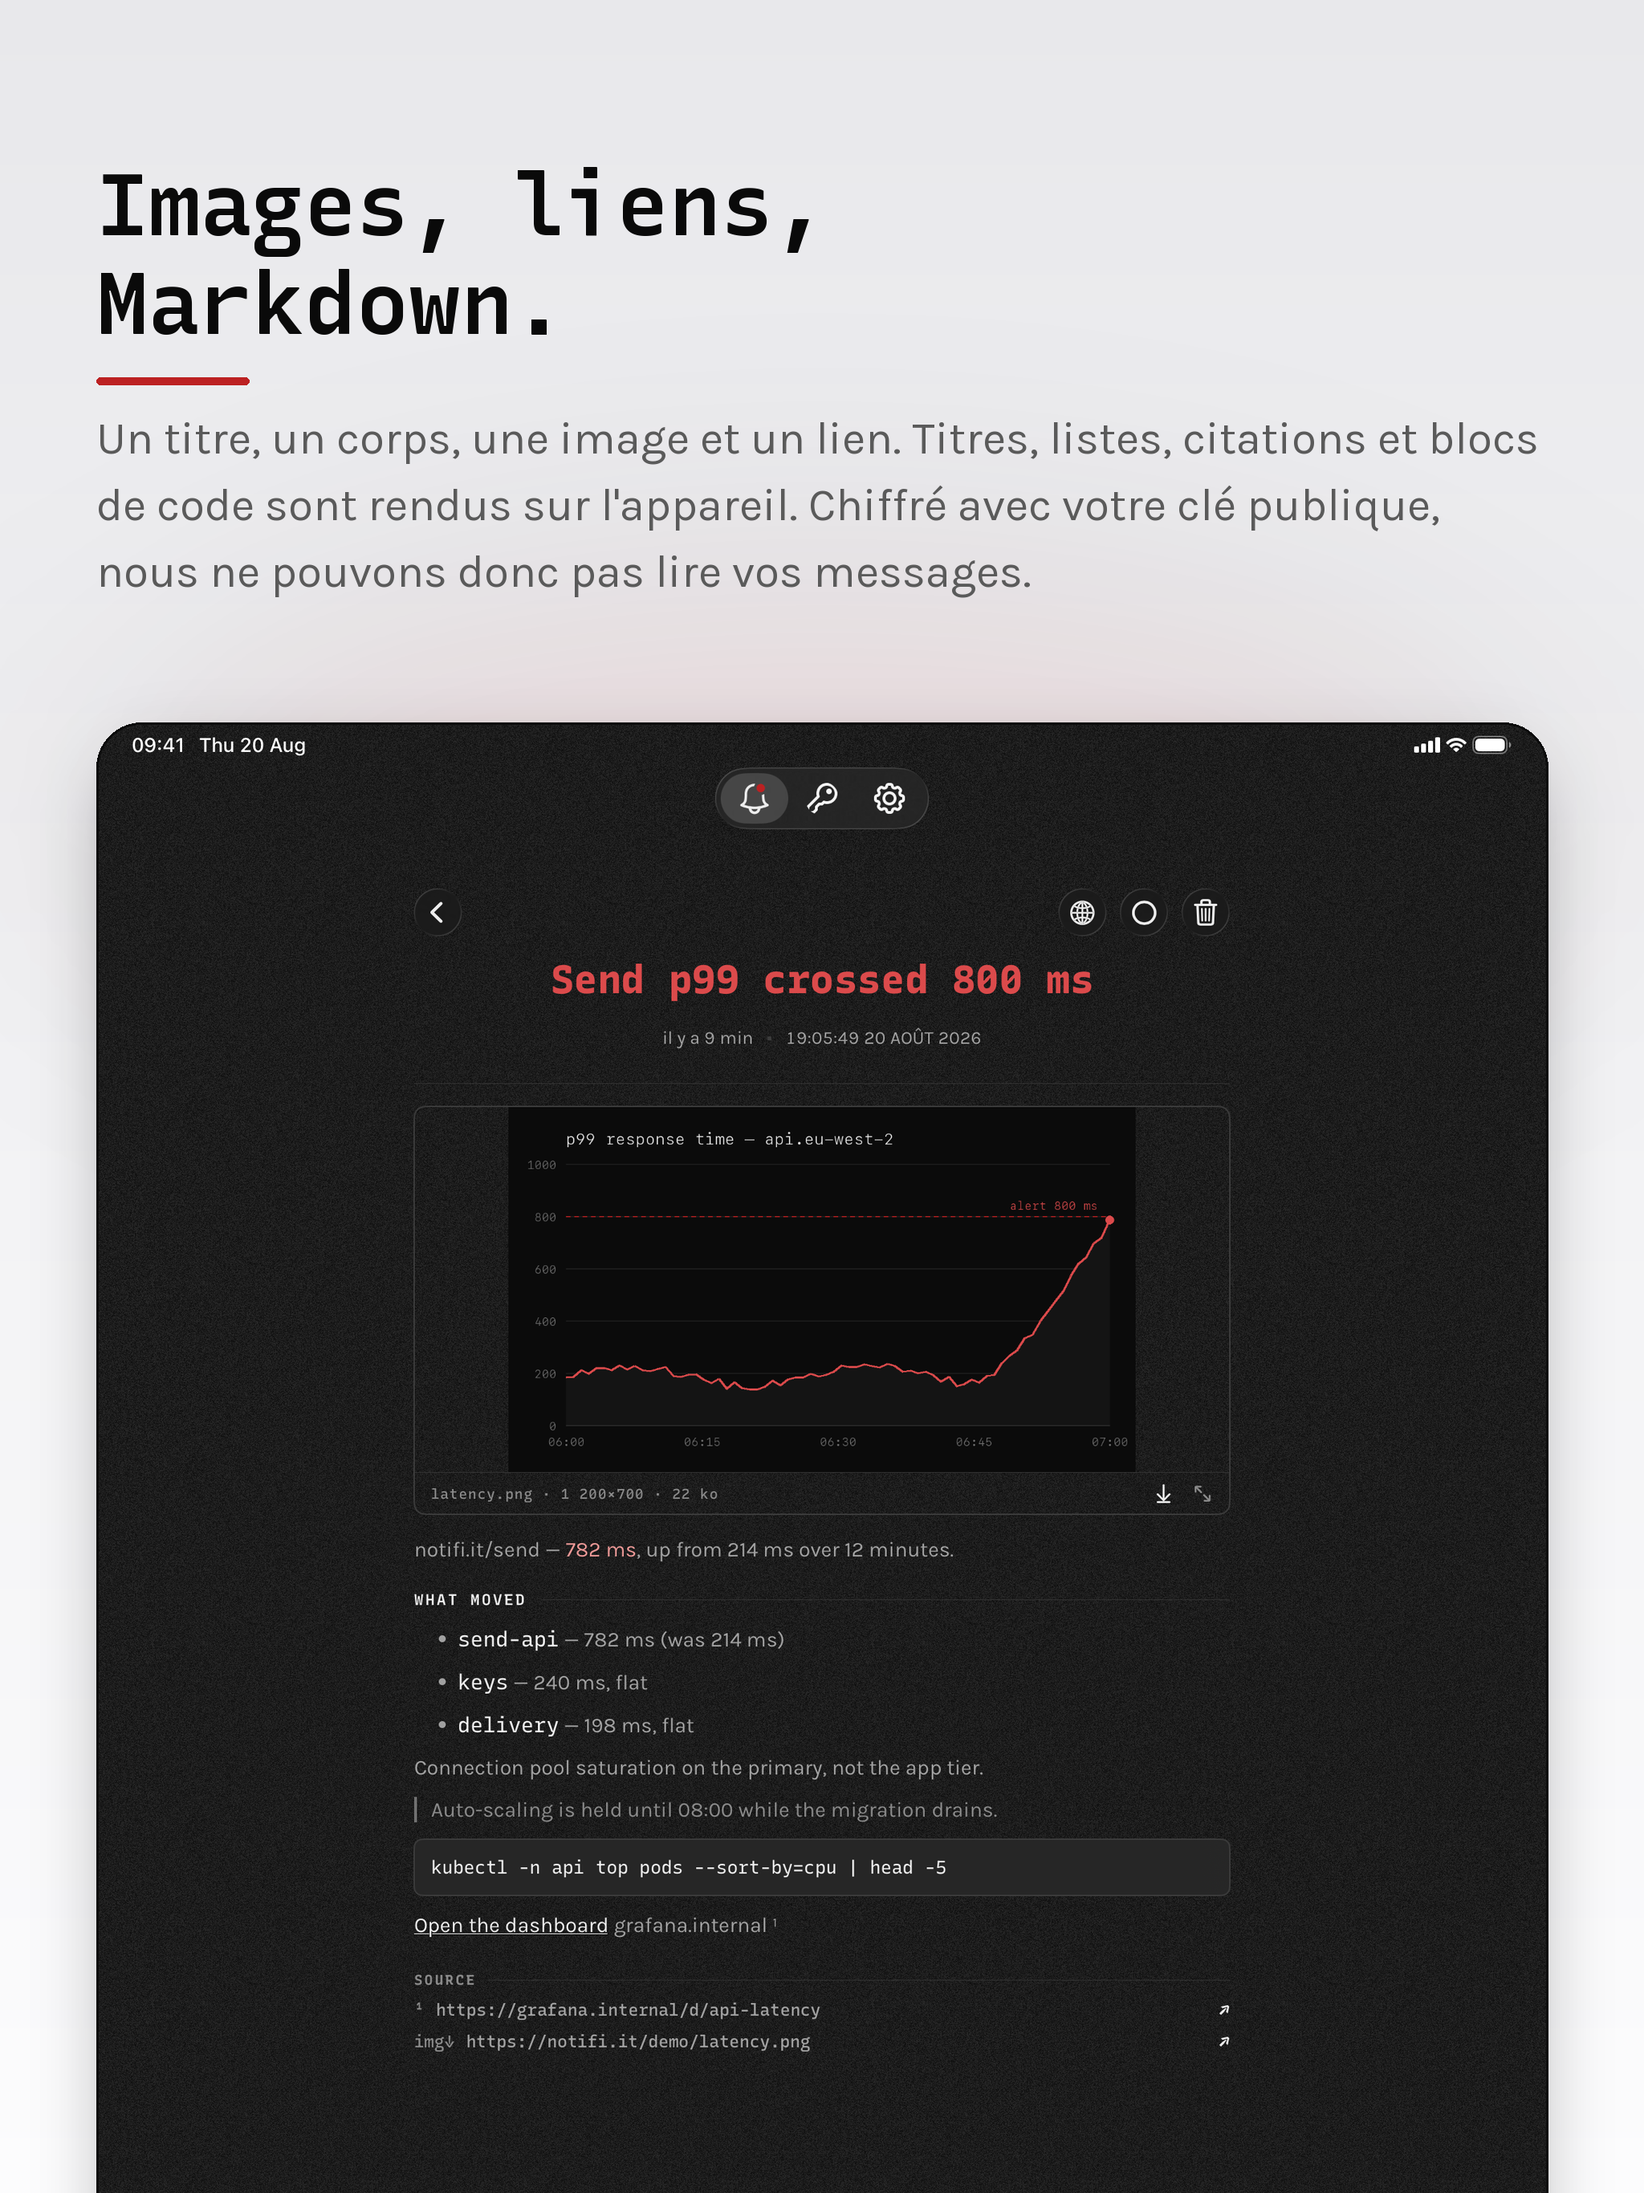
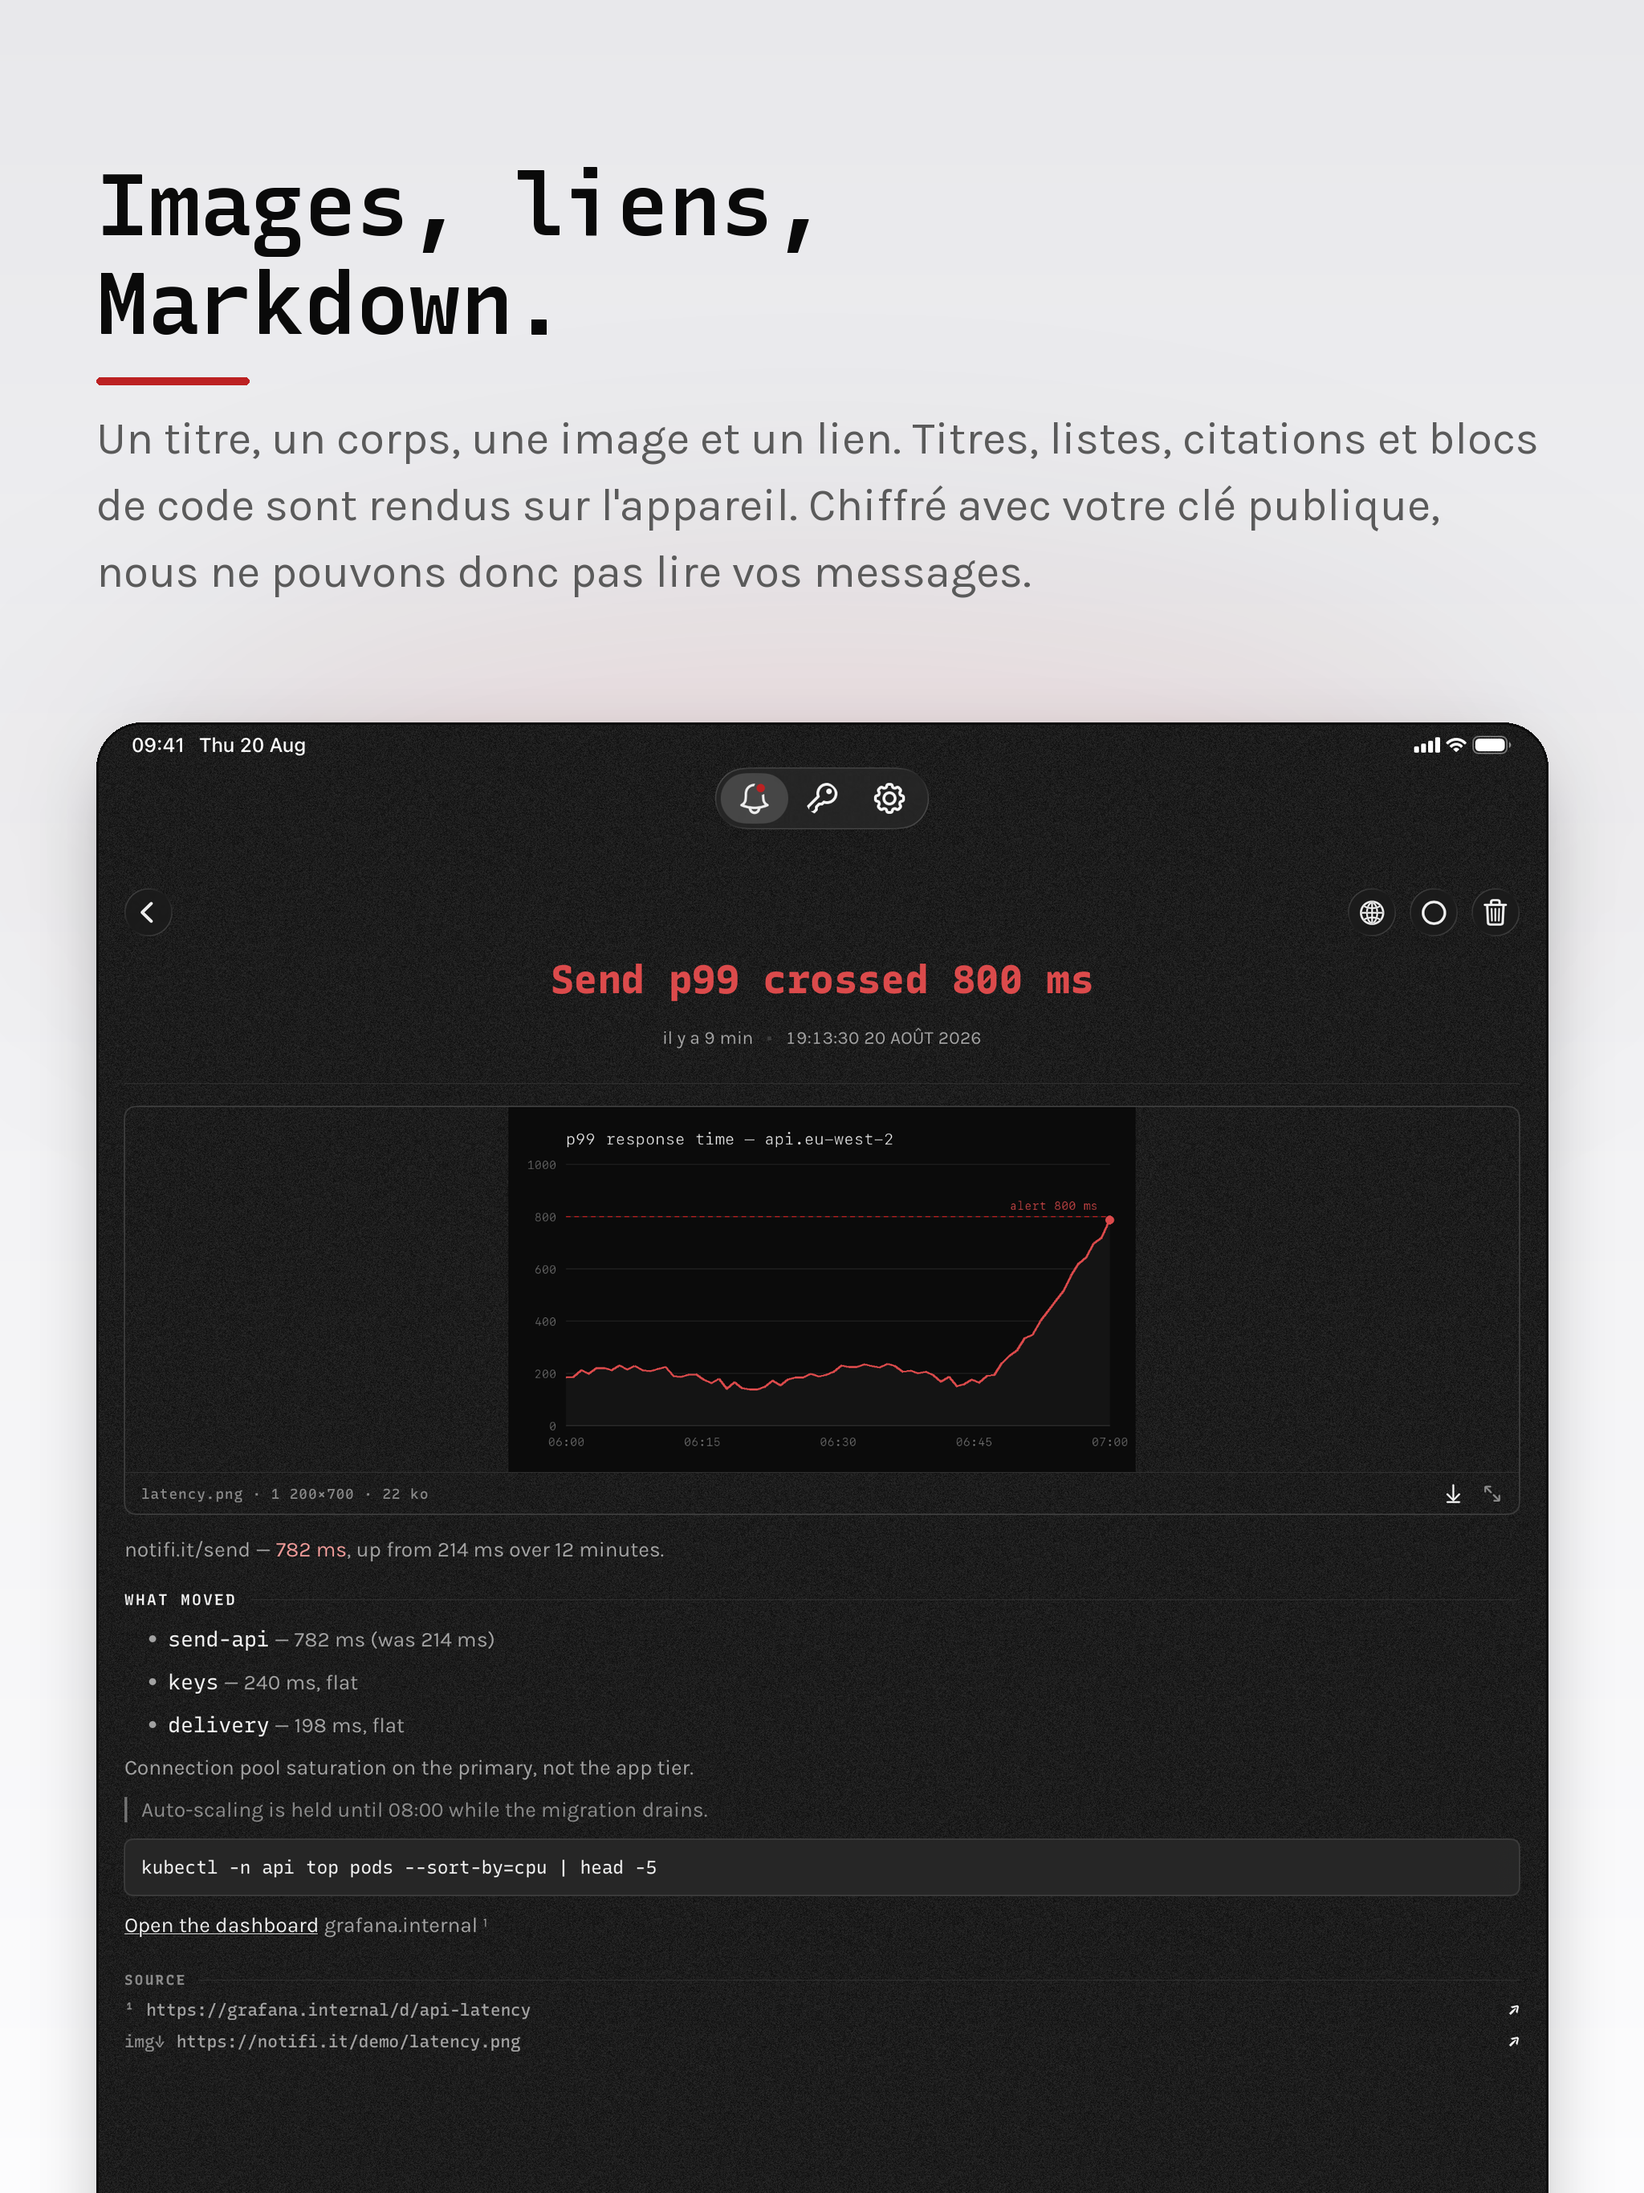
Let the iPad use its width
Theme.measure held every screen to 620pt and centred it, so a 1024pt iPad
showed a phone-width column with a strip of ground down each side, and row
titles truncated with half the screen empty beside them. The measure is gone
and content fills the width.

Only the iPad changes: an iPhone is narrower than the measure ever was, and
so is the Mac popover at 486pt.

The message body is what a measure is for, and it now sets to about 90
characters on an iPad rather than 55. Worth watching on the detail screen.

diff --git a/apps/app/Shared/Views/KeyDetailView.swift b/apps/app/Shared/Views/KeyDetailView.swift
@@ -28,7 +28,7 @@ struct KeyDetailView: View {
     var body: some View {
         ScrollView {
             if let key {
-                content(for: key).geistGutter().geistMeasure()
+                content(for: key).geistGutter()
             } else {
                 VStack(spacing: 10) {
                     Text(Copy.KeyDetail.notFound)
@@ -47,7 +47,6 @@ struct KeyDetailView: View {
         .safeAreaInset(edge: .top) {
             GeistBackBar(label: Copy.Tabs.keys, dismiss: { dismiss() }, trailing: nil)
                 .geistGutter()
-                .geistMeasure()
                 .background(StaticField())
         }
         #if os(iOS)

diff --git a/apps/app/Shared/Support/Theme.swift b/apps/app/Shared/Support/Theme.swift
@@ -97,8 +97,6 @@ enum Theme {
 
     static let minTarget: CGFloat = 44
 
-    static let measure: CGFloat = 620
-
     static let bottomPlate: CGFloat = 44
 
     static let topFade: CGFloat = 14
@@ -141,11 +139,6 @@ extension View {
 
     func geistGroupGutter() -> some View {
         padding(.horizontal, Theme.groupInset + Theme.gutter)
-    }
-
-    func geistMeasure() -> some View {
-        frame(maxWidth: Theme.measure, alignment: .leading)
-            .frame(maxWidth: .infinity)
     }
 
     func geistBannerTransition() -> some View {

diff --git a/apps/app/Shared/Views/MessageDetailView.swift b/apps/app/Shared/Views/MessageDetailView.swift
@@ -57,7 +57,6 @@ struct MessageDetailView: View {
             if let message {
                 content(for: message)
                     .geistGutter()
-                    .geistMeasure()
             } else {
                 VStack(spacing: 10) {
                     Text(Copy.Message.notFound)
@@ -137,7 +136,6 @@ struct MessageDetailView: View {
             }
         }
         .geistGutter()
-        .geistMeasure()
         .padding(.top, 22)
         .padding(.bottom, 6)
         .background(StaticField())

diff --git a/apps/app/Shared/Views/Components/GeistPage.swift b/apps/app/Shared/Views/Components/GeistPage.swift
@@ -23,11 +23,9 @@ struct GeistPage<Header: View, Content: View>: View {
             header()
                 .geistPageHeader()
                 .geistGutter()
-                .geistMeasure()
                 .background(StaticField())
 
             scrollingContent
-                .geistMeasure()
         }
         .background(StaticField())
         #if os(iOS)

diff --git a/apps/app/Shared/Views/CreateKeyView.swift b/apps/app/Shared/Views/CreateKeyView.swift
@@ -43,7 +43,6 @@ struct CreateKeyView: View {
                 }
             }
             .geistGutter()
-            .geistMeasure()
             .padding(.bottom, 40)
         }
         .background(Theme.bg)
